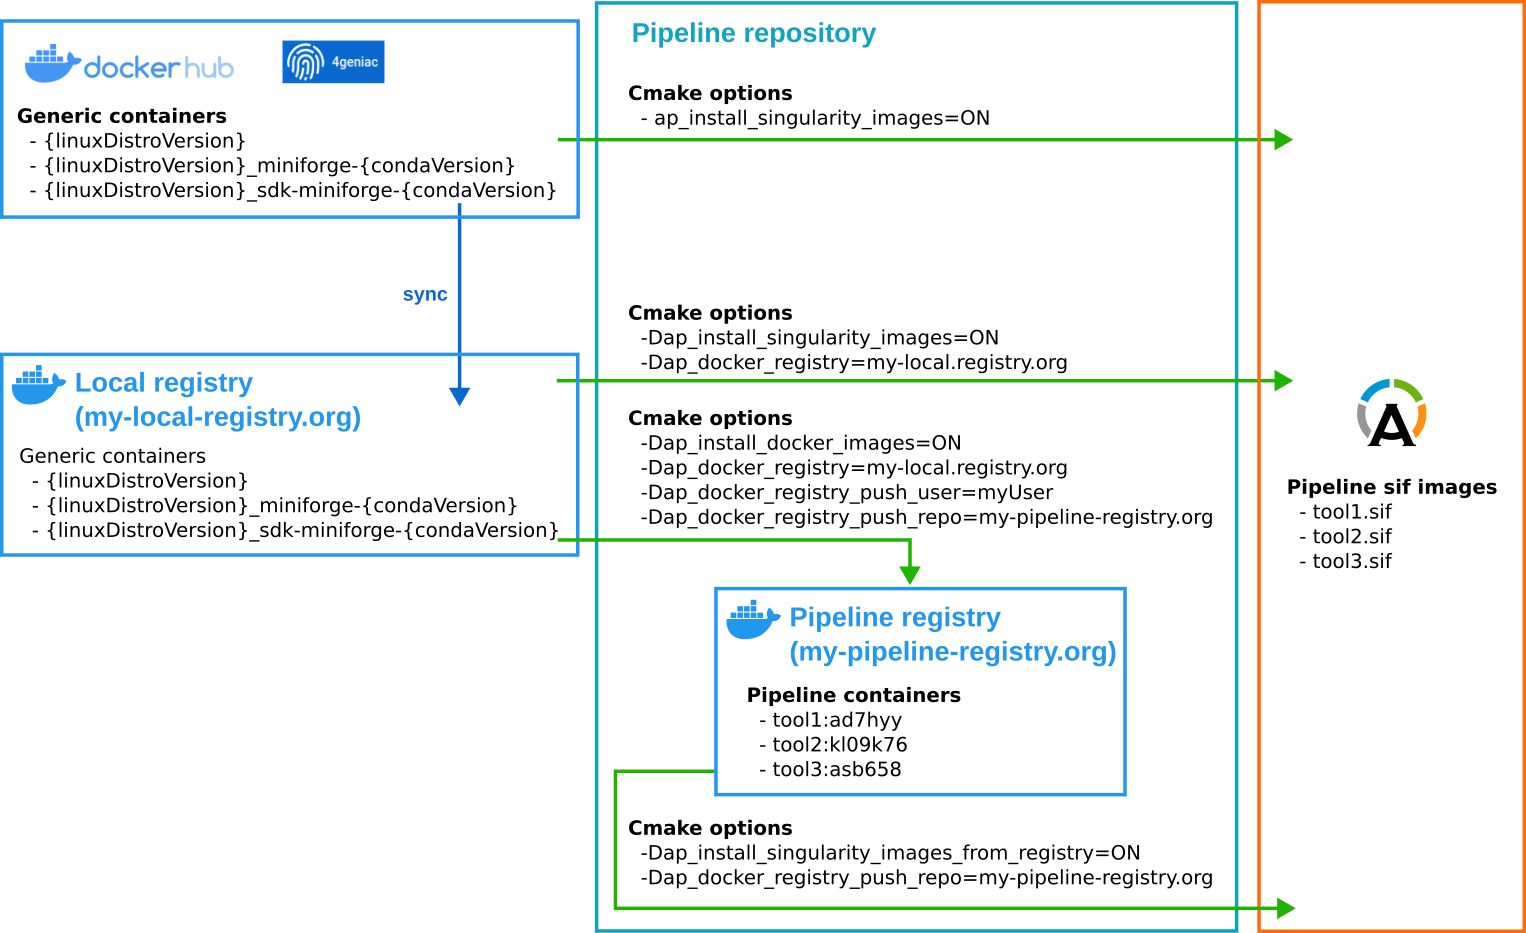
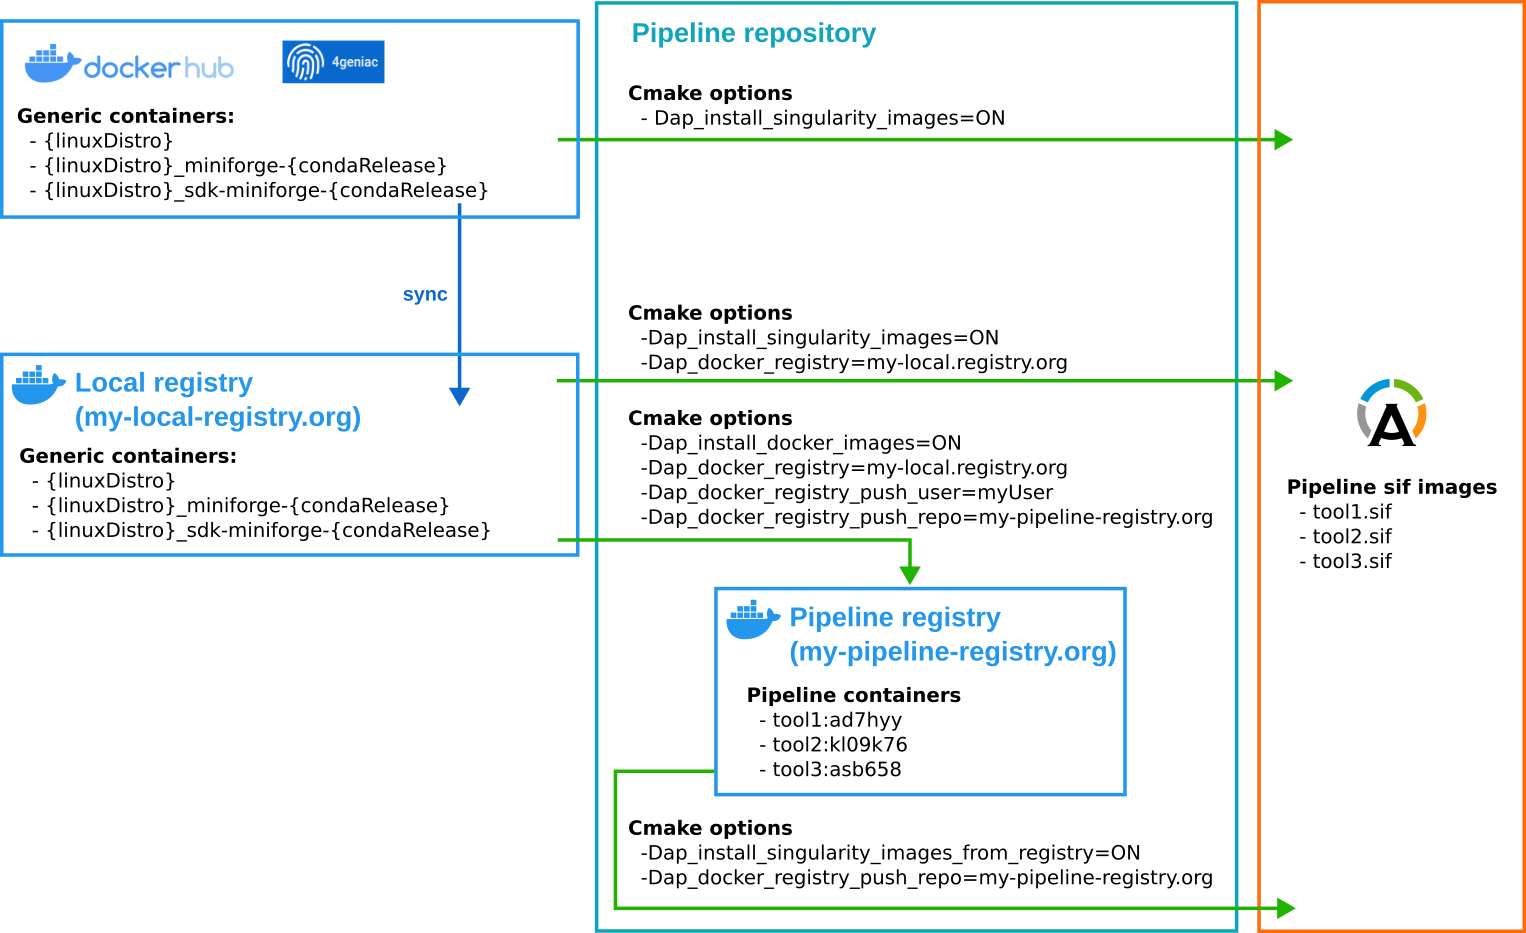
[DOC] Update containers on dockerhub (Issue #355)

Changed region(s): [[0.0, 0.4662, 0.3696, 0.5906], [0.0924, 0.1243, 0.3696, 0.2176], [0.4312, 0.0932, 0.6468, 0.1554]]

diff --git a/docs/contributing.rst b/docs/contributing.rst
@@ -213,7 +213,7 @@ Architecture and cmake options of the docker registries
 The picture below describes how the different docker registries are related and used to build the sif images depending on the cmake options passed during the :ref:`install-configure` step.
 
 
-The ``{linuxDistro}`` and ``{condaVersion}`` are set by the :ref:`install-ap_linux_distro` and :ref:`install-ap_conda_release` options. They are used within the the ``install/nextflow.config.in`` file. 
+The ``{linuxDistro}`` and ``{condaRelease}`` are set by the :ref:`install-ap_linux_distro` and :ref:`install-ap_conda_release` options. They are used within the the ``install/nextflow.config.in`` file. 
 
 .. image:: images/geniac-container-archi.png
     :align: center